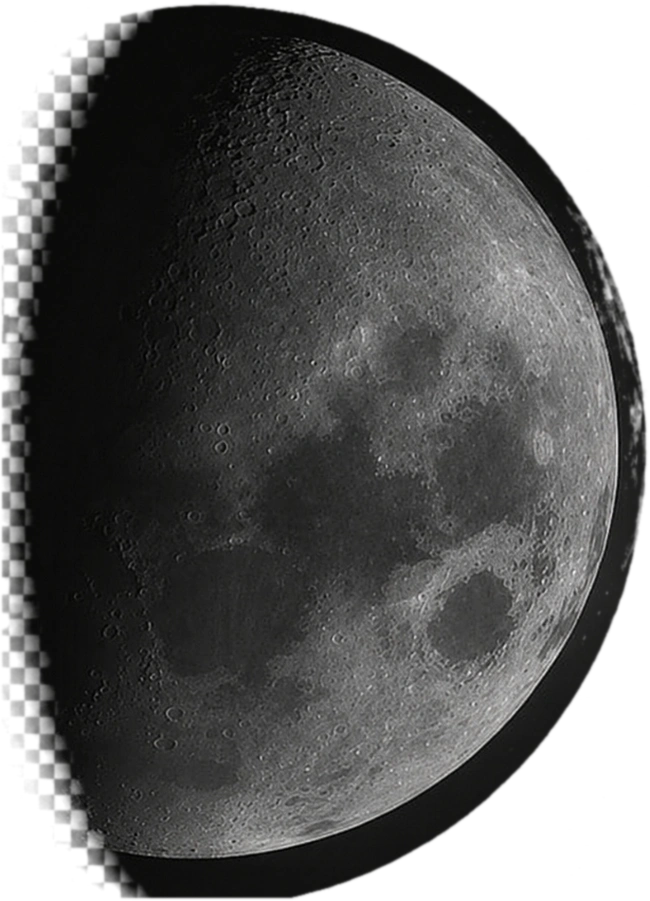
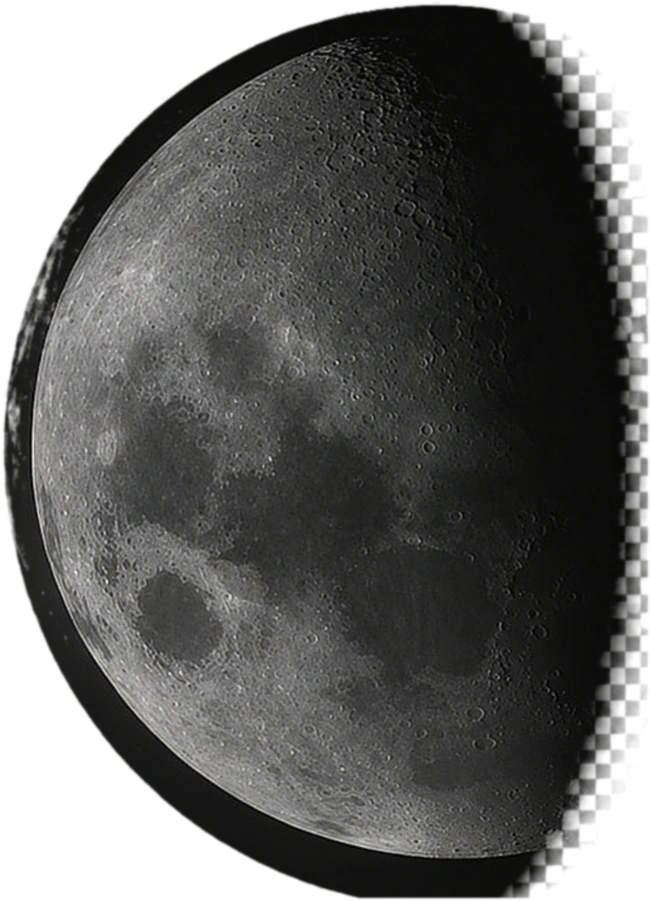
fix: invert moon horizontally so illuminated crescent faces left toward cards and center vertically behind Technical Manager card

diff --git a/index.html b/index.html
@@ -8,7 +8,7 @@
   <link rel="preconnect" href="https://fonts.googleapis.com">
   <link rel="preconnect" href="https://fonts.gstatic.com" crossorigin>
   <link href="https://fonts.googleapis.com/css2?family=Space+Grotesk:wght@300;400;500;600;700&family=Inter:wght@300;400;500;600&family=Space+Mono:ital,wght@0,400;0,700&display=swap" rel="stylesheet">
-  <link rel="stylesheet" href="style.css?v=13.0">
+  <link rel="stylesheet" href="style.css?v=14.0">
 </head>
 <body>
 
@@ -172,8 +172,8 @@
     <!-- Atmospheric Moon in Background — Just like Astronaut -->
     <div class="experience-moon-bg" aria-hidden="true">
       <picture>
-        <source srcset="assets/experience_moon.webp?v=13.0" type="image/webp">
-        <img src="assets/experience_moon.png?v=13.0" alt="" class="experience-moon-img" draggable="false" loading="lazy">
+        <source srcset="assets/experience_moon.webp?v=14.0" type="image/webp">
+        <img src="assets/experience_moon.png?v=14.0" alt="" class="experience-moon-img" draggable="false" loading="lazy">
       </picture>
     </div>
 
@@ -546,6 +546,6 @@
     </div>
   </footer>
 
-  <script src="script.js?v=13.0"></script>
+  <script src="script.js?v=14.0"></script>
 </body>
 </html>

diff --git a/style.css b/style.css
@@ -443,9 +443,11 @@ body::before {
 
 .experience-moon-bg {
   position: absolute;
-  top: clamp(140px, 18vw, 210px);
-  right: clamp(-250px, -11vw, -130px);
-  width: clamp(420px, 32vw, 560px);
+  top: 42%;
+  right: -100px;
+  transform: translateY(-50%);
+  width: clamp(480px, 36vw, 660px);
+  max-width: 48vw;
   pointer-events: none;
   z-index: 0;
   opacity: 0.55;
@@ -457,6 +459,7 @@ body::before {
   display: block;
   user-select: none;
   pointer-events: none;
+  filter: drop-shadow(0 0 25px rgba(195, 215, 255, 0.05));
 }
 
 .experience-section .experience-content,
@@ -471,14 +474,14 @@ body::before {
 
 @media (max-width: 992px) {
   .experience-moon-bg {
-    width: 360px;
-    right: -160px;
-    top: 220px;
+    width: clamp(340px, 32vw, 460px);
+    right: -120px;
+    top: 45%;
     opacity: 0.40;
   }
 }
 
-@media (max-width: 680px) {
+@media (max-width: 768px) {
   .experience-moon-bg {
     display: none;
   }
